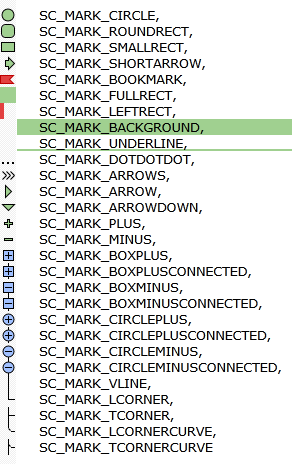
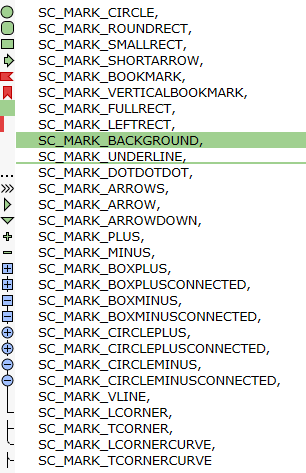
Feature [feature-requests:#1276]. Add SC_MARK_VERTICALBOOKMARK.

diff --git a/doc/ScintillaHistory.html b/doc/ScintillaHistory.html
@@ -576,7 +576,11 @@
 	at the expense of memory.
 	<a href="https://sourceforge.net/p/scintilla/feature-requests/1259/">Feature #1259</a>.
 	</li>
- 	<li>
+	<li>
+	Add vertical bookmark symbol SC_MARK_VERTICALBOOKMARK.
+	<a href="https://sourceforge.net/p/scintilla/feature-requests/1276/">Feature #1276</a>.
+	</li>
+	<li>
 	Improve performance of accessibility on GTK.
 	<a href="https://sourceforge.net/p/scintilla/bugs/2094/">Bug #2094</a>.
 	</li>

diff --git a/doc/ScintillaDoc.html b/doc/ScintillaDoc.html
@@ -4071,7 +4071,8 @@ struct Sci_TextToFind {
     <code>SC_MARK_BACKGROUND</code>,
     <code>SC_MARK_LEFTRECT</code>,
     <code>SC_MARK_FULLRECT</code>,
-    <code>SC_MARK_BOOKMARK</code>, and
+    <code>SC_MARK_BOOKMARK</code>,
+    <code>SC_MARK_VERTICALBOOKMARK</code>, and
     <code>SC_MARK_UNDERLINE</code>.
     </p>
 

diff --git a/include/Scintilla.h b/include/Scintilla.h
@@ -135,6 +135,7 @@ typedef sptr_t (*SciFnDirect)(sptr_t ptr, unsigned int iMessage, uptr_t wParam, 
 #define SC_MARK_UNDERLINE 29
 #define SC_MARK_RGBAIMAGE 30
 #define SC_MARK_BOOKMARK 31
+#define SC_MARK_VERTICALBOOKMARK 32
 #define SC_MARK_CHARACTER 10000
 #define SC_MARKNUM_FOLDEREND 25
 #define SC_MARKNUM_FOLDEROPENMID 26
